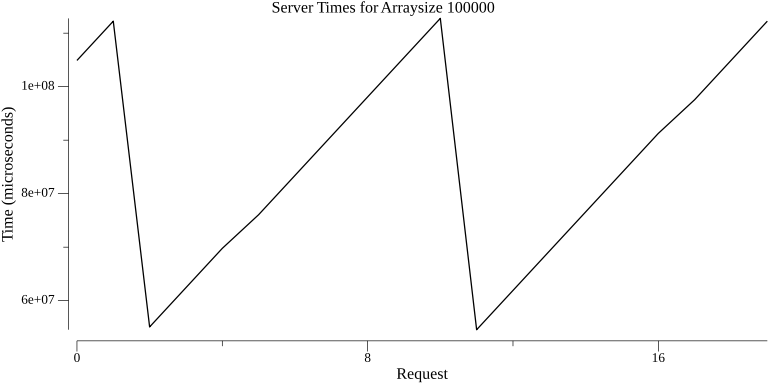
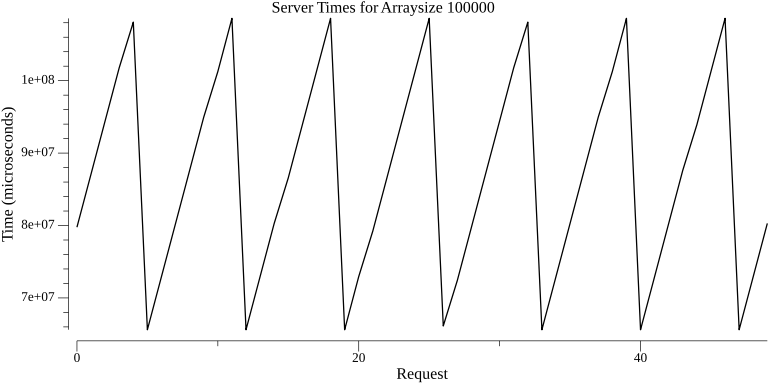
JavaProblemParallel Works

diff --git a/docker-compose/Experiments/JavaProblem/request_sender.go b/docker-compose/Experiments/JavaProblem/request_sender.go
@@ -21,7 +21,7 @@ import (
 )
 
 var iterations int = 1000
-var actualIterations int = 20
+var actualIterations int = 50
 
 // Constants for API endpoints and file names
 const (

diff --git a/docker-compose/Experiments/JavaProblemParallel/request_sender.go b/docker-compose/Experiments/JavaProblemParallel/request_sender.go
@@ -21,7 +21,7 @@ import (
 )
 
 var iterations int = 1000
-var actualIterations int = 20
+var actualIterations int = 50
 
 // Constants for API endpoints and file names
 const (
